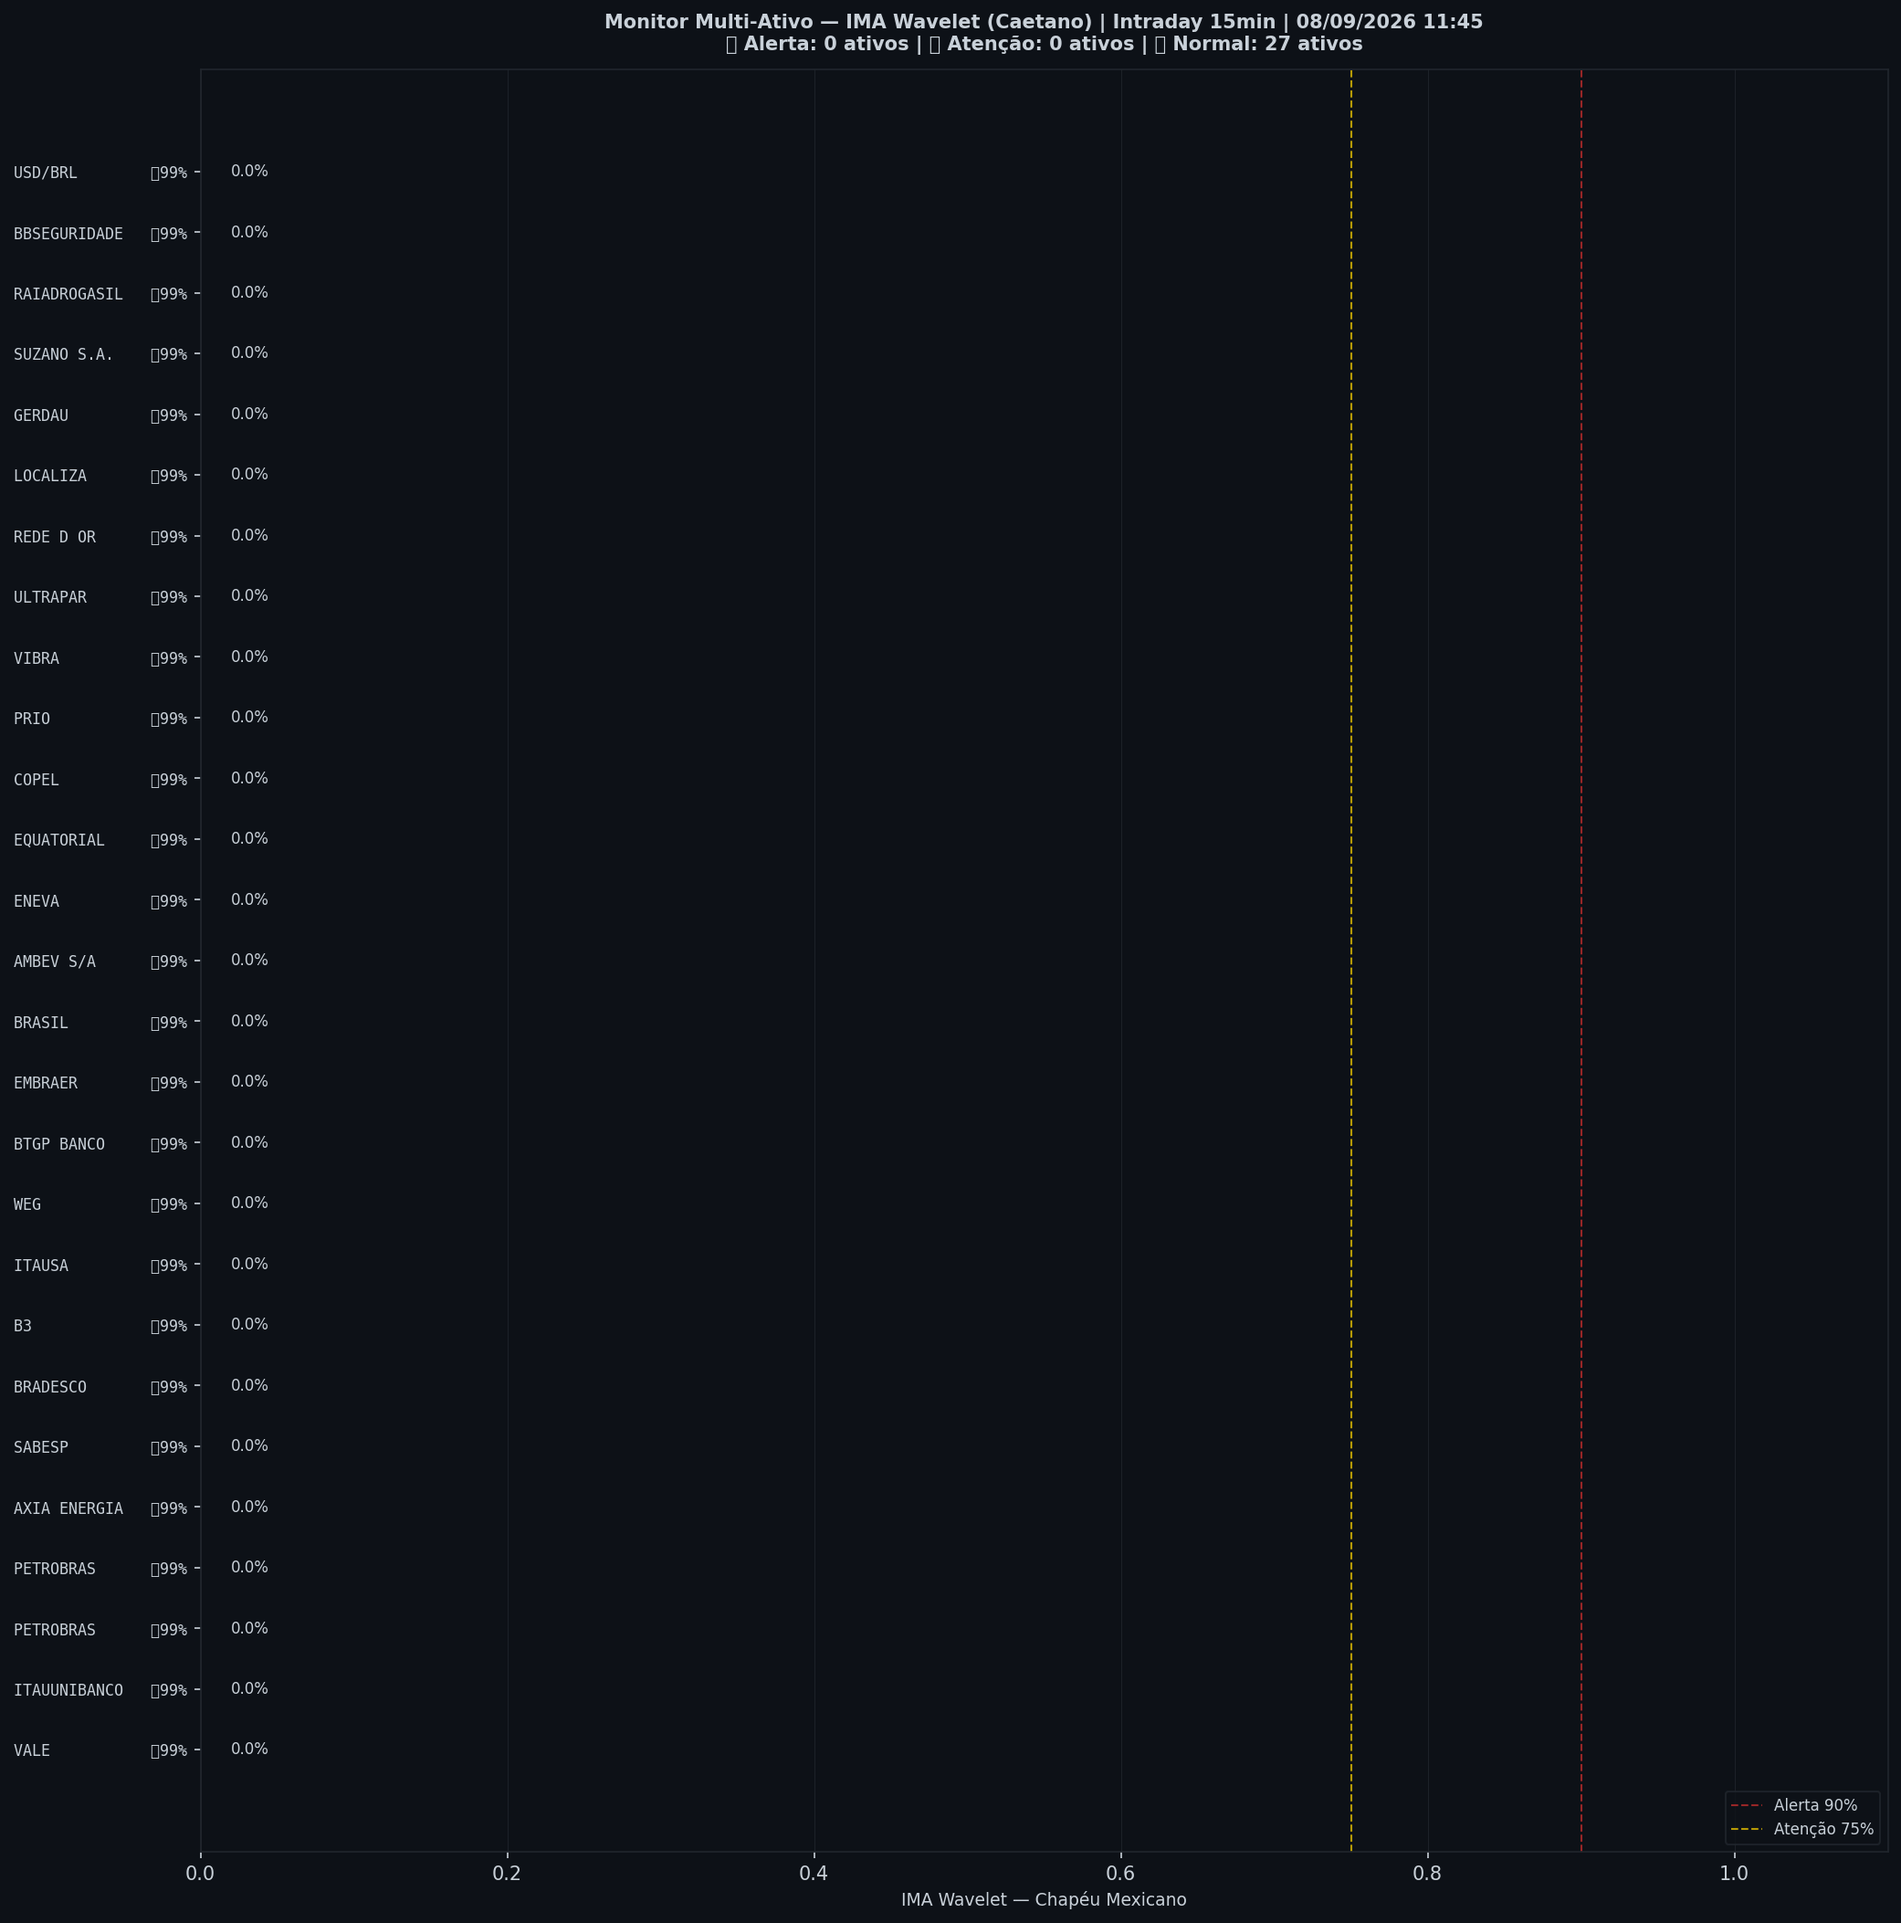
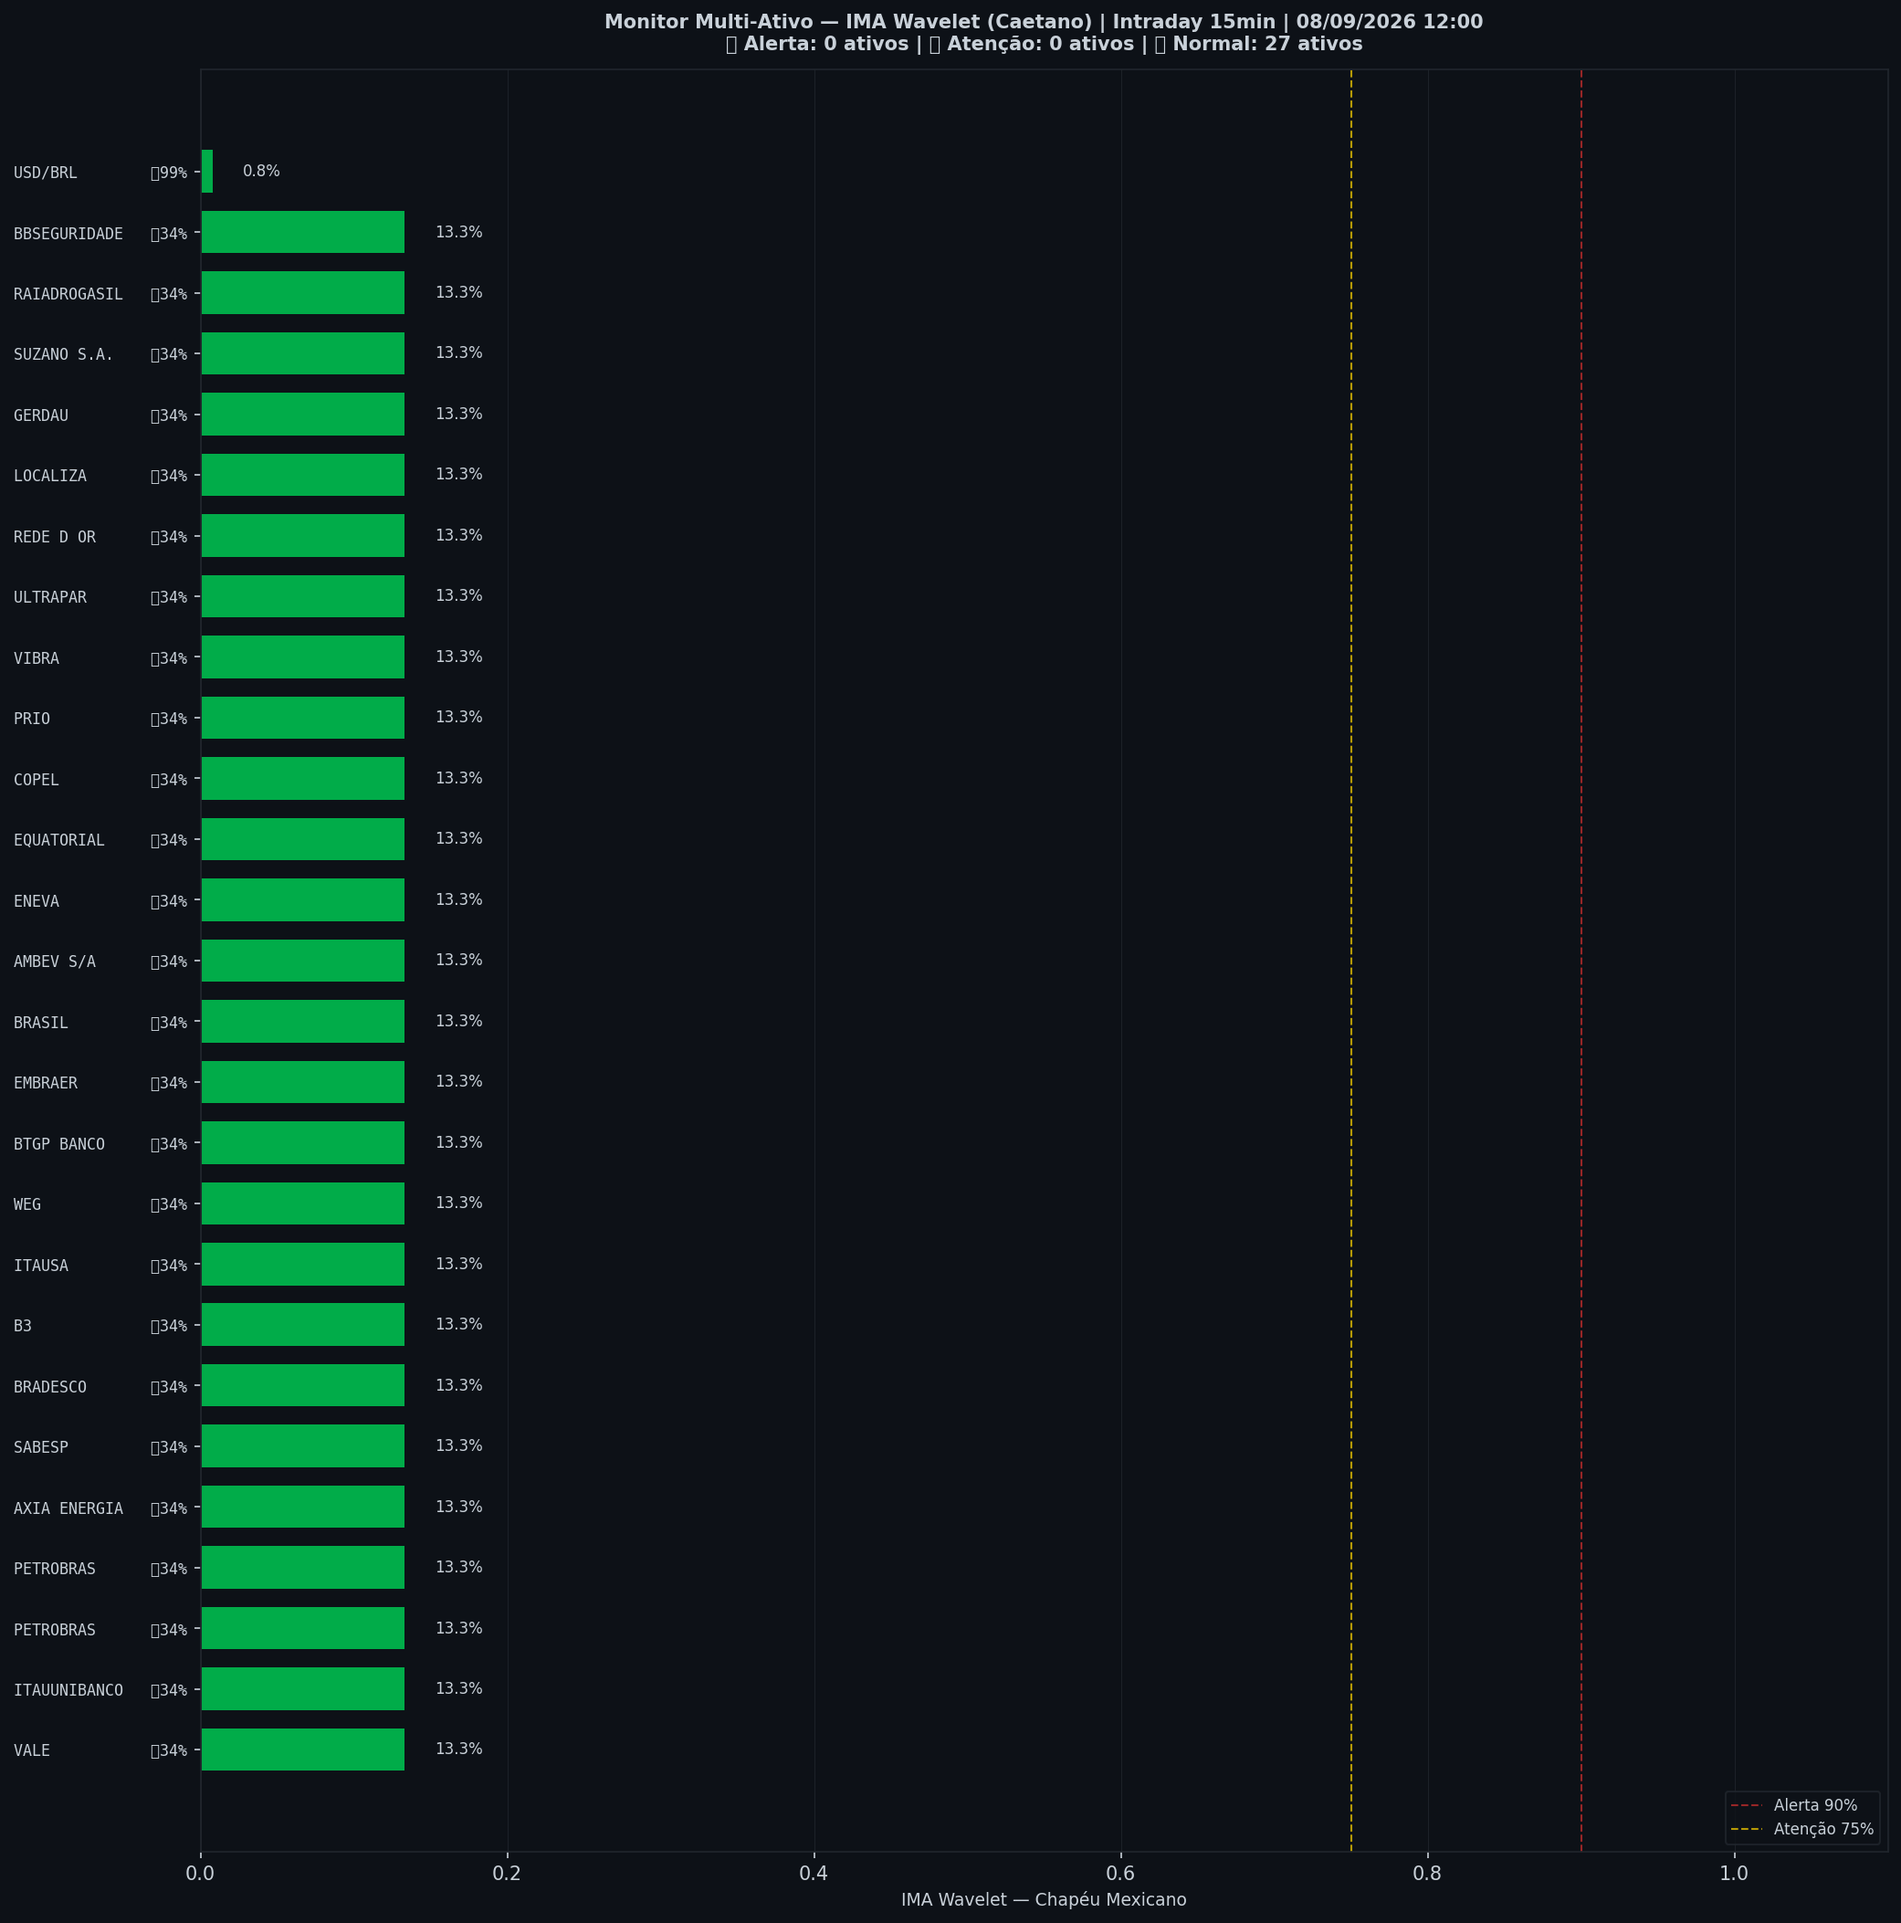
🤖 Auto: Sinal 08/09/2026 12:00

Changed region(s): [[0.0937, 0.0926, 0.2185, 0.9259]]

diff --git a/content/intraday/2026-09-08.md b/content/intraday/2026-09-08.md
@@ -1,20 +1,20 @@
 ---
-title: "🟢 Intraday 08/09/2026 11:00 BRT — VERDE"
+title: "🟢 Intraday 08/09/2026 11:15 BRT — VERDE"
 date: 2026-09-08
 tags: [intraday]
 ---
 
-> [!success] 🟢 **VERDE** — Risco 17% · ▲ +5 p.p. vs leitura anterior
-> `███░░░░░░░░░░░░░░░░░`
+> [!success] 🟢 **VERDE** — Risco 20% · ▲ +2 p.p. vs leitura anterior
+> `████░░░░░░░░░░░░░░░░`
 > Mercado sem sinais relevantes de estresse.
 
 
 | Indicador | Valor |
 |---|---|
-| 🔴 ζ Crash — severidade da queda em curso | **17%** |
+| 🔴 ζ Crash — severidade da queda em curso | **20%** |
 | 🔵 ζ Entrada — estrutura de fundo | 0% |
 | 🫧 LPPL DS-Confidence | 0% |
-| 📊 Ibovespa | 188.914 pts |
+| 📊 Ibovespa | 189.170 pts |
 
 ![Gráfico do sinal](../graficos/sinal_intraday.png)
 
@@ -22,6 +22,7 @@ tags: [intraday]
 
 | Data | Zona | Risco | IMA Crash | Entrada | LPPL |
 |---|---|---|---|---|---|
+| 2026-09-08 11:15 | 🟢 VERDE | **20%** | 20% | 0% | 0% |
 | 2026-09-08 11:00 | 🟢 VERDE | **17%** | 17% | 0% | 0% |
 | 2026-09-08 10:45 | 🟢 VERDE | **12%** | 12% | 0% | 0% |
 | 2026-09-08 10:30 | 🟢 VERDE | **6%** | 6% | 2% | 0% |
@@ -51,7 +52,6 @@ tags: [intraday]
 | 2026-09-04 11:30 | 🟢 VERDE | **2%** | 2% | 73% | 0% |
 | 2026-09-04 11:15 | 🟢 VERDE | **0%** | 0% | 80% | 0% |
 | 2026-09-04 11:00 | 🟢 VERDE | **0%** | 0% | 84% | 0% |
-| 2026-09-04 10:45 | 🟢 VERDE | **1%** | 1% | 84% | 0% |
 
 ## Monitor Multi-Ativo
 
@@ -59,37 +59,37 @@ tags: [intraday]
 
 | Zona | Ativo | Setor | IMA Crash | IMA Entrada |
 |---|---|---|---|---|
-| 🟢 | **VALE** | Mineração | 0.0% | 99.2% |
-| 🟢 | **ITAUUNIBANCO** | Financeiro | 0.0% | 99.2% |
-| 🟢 | **PETROBRAS** | Petróleo | 0.0% | 99.2% |
-| 🟢 | **PETROBRAS** | Petróleo | 0.0% | 99.2% |
-| 🟢 | **AXIA ENERGIA** | Energia | 0.0% | 99.2% |
-| 🟢 | **SABESP** | Saneamento | 0.0% | 99.2% |
-| 🟢 | **BRADESCO** | Financeiro | 0.0% | 99.2% |
-| 🟢 | **B3** | Financeiro | 0.0% | 99.2% |
-| 🟢 | **ITAUSA** | Financeiro | 0.0% | 99.2% |
-| 🟢 | **WEG** | Industrial | 0.0% | 99.2% |
-| 🟢 | **BTGP BANCO** | Financeiro | 0.0% | 99.2% |
-| 🟢 | **EMBRAER** | Outros | 0.0% | 99.2% |
-| 🟢 | **BRASIL** | Financeiro | 0.0% | 99.2% |
-| 🟢 | **AMBEV S/A** | Consumo | 0.0% | 99.2% |
-| 🟢 | **ENEVA** | Energia | 0.0% | 99.2% |
-| 🟢 | **EQUATORIAL** | Energia | 0.0% | 99.2% |
-| 🟢 | **COPEL** | Energia | 0.0% | 99.2% |
-| 🟢 | **PRIO** | Petróleo | 0.0% | 99.2% |
-| 🟢 | **VIBRA** | Energia | 0.0% | 99.2% |
-| 🟢 | **ULTRAPAR** | Outros | 0.0% | 99.2% |
-| 🟢 | **REDE D OR** | Saúde | 0.0% | 99.2% |
-| 🟢 | **LOCALIZA** | Aluguel | 0.0% | 99.2% |
-| 🟢 | **GERDAU** | Siderurgia | 0.0% | 99.2% |
-| 🟢 | **SUZANO S.A.** | Papel/Celulose | 0.0% | 99.2% |
-| 🟢 | **RAIADROGASIL** | Outros | 0.0% | 99.2% |
-| 🟢 | **BBSEGURIDADE** | Financeiro | 0.0% | 99.2% |
-| 🟢 | **USD/BRL** | Câmbio | 0.0% | 99.2% |
+| 🟢 | **VALE** | Mineração | 13.3% | 33.6% |
+| 🟢 | **ITAUUNIBANCO** | Financeiro | 13.3% | 33.6% |
+| 🟢 | **PETROBRAS** | Petróleo | 13.3% | 33.6% |
+| 🟢 | **PETROBRAS** | Petróleo | 13.3% | 33.6% |
+| 🟢 | **AXIA ENERGIA** | Energia | 13.3% | 33.6% |
+| 🟢 | **SABESP** | Saneamento | 13.3% | 33.6% |
+| 🟢 | **BRADESCO** | Financeiro | 13.3% | 33.6% |
+| 🟢 | **B3** | Financeiro | 13.3% | 33.6% |
+| 🟢 | **ITAUSA** | Financeiro | 13.3% | 33.6% |
+| 🟢 | **WEG** | Industrial | 13.3% | 33.6% |
+| 🟢 | **BTGP BANCO** | Financeiro | 13.3% | 33.6% |
+| 🟢 | **EMBRAER** | Outros | 13.3% | 33.6% |
+| 🟢 | **BRASIL** | Financeiro | 13.3% | 33.6% |
+| 🟢 | **AMBEV S/A** | Consumo | 13.3% | 33.6% |
+| 🟢 | **ENEVA** | Energia | 13.3% | 33.6% |
+| 🟢 | **EQUATORIAL** | Energia | 13.3% | 33.6% |
+| 🟢 | **COPEL** | Energia | 13.3% | 33.6% |
+| 🟢 | **PRIO** | Petróleo | 13.3% | 33.6% |
+| 🟢 | **VIBRA** | Energia | 13.3% | 33.6% |
+| 🟢 | **ULTRAPAR** | Outros | 13.3% | 33.6% |
+| 🟢 | **REDE D OR** | Saúde | 13.3% | 33.6% |
+| 🟢 | **LOCALIZA** | Aluguel | 13.3% | 33.6% |
+| 🟢 | **GERDAU** | Siderurgia | 13.3% | 33.6% |
+| 🟢 | **SUZANO S.A.** | Papel/Celulose | 13.3% | 33.6% |
+| 🟢 | **RAIADROGASIL** | Outros | 13.3% | 33.6% |
+| 🟢 | **BBSEGURIDADE** | Financeiro | 13.3% | 33.6% |
+| 🟢 | **USD/BRL** | Câmbio | 0.8% | 99.2% |
 
 ![Monitor multi-ativo](../graficos/multi_intraday.png)
 
-*Página atualizada em 08/09/2026 11:45 BRT (leitura da barra de 2026-09-08 11:00 BRT).*
+*Página atualizada em 08/09/2026 12:00 BRT (leitura da barra de 2026-09-08 11:15 BRT).*
 
 > [!info]- Como interpretar (clique para expandir)
 > - **ζ Crash**: fração dos coeficientes wavelet acima do corte (Caetano & Yoneyama 2009). Escala absoluta: ζ=0,90 = 90% dos coeficientes anômalos — historicamente, quedas com ζ≥0,90 foram mais fundas e mais longas. **Mede a severidade do movimento em curso, não prevê o início da queda.**

diff --git a/content/index.md b/content/index.md
@@ -8,19 +8,19 @@ tags: [home]
 
 Monitoramento diário e intraday do Ibovespa — **IMA Wavelet** (Prof. Marco Antonio Leonel Caetano, ITA/INSPER) + **LPPL DS-Confidence** (Prof. Didier Sornette, ETH-Zurich).
 
-*Última atualização: 08/09/2026 11:45 BRT · ^BVSP · Intraday 15min · v4*
+*Última atualização: 08/09/2026 12:00 BRT · ^BVSP · Intraday 15min · v4*
 
-> [!success] 🟢 **VERDE** — Risco 17% · ▲ +5 p.p. vs leitura anterior
-> `███░░░░░░░░░░░░░░░░░`
+> [!success] 🟢 **VERDE** — Risco 20% · ▲ +2 p.p. vs leitura anterior
+> `████░░░░░░░░░░░░░░░░`
 > Mercado sem sinais relevantes de estresse.
 
 
 | Indicador | Valor |
 |---|---|
-| 🔴 ζ Crash — severidade da queda em curso | **17%** |
+| 🔴 ζ Crash — severidade da queda em curso | **20%** |
 | 🔵 ζ Entrada — estrutura de fundo | 0% |
 | 🫧 LPPL DS-Confidence | 0% |
-| 📊 Ibovespa | 188.914 pts |
+| 📊 Ibovespa | 189.170 pts |
 
 **Multi-ativo:** 0% em tensão (0🔴 0🟡 de 27 ativos)
 
@@ -32,7 +32,7 @@ Monitoramento diário e intraday do Ibovespa — **IMA Wavelet** (Prof. Marco An
 
 | Data | Zona | Risco | IMA | LPPL |
 |---|---|---|---|---|
-| [08 Sep 2026](diario/2026-09-08) | 🟢 VERDE | **17%** | 17% | 0% |
+| [08 Sep 2026](diario/2026-09-08) | 🟢 VERDE | **20%** | 20% | 0% |
 | [04 Sep 2026](diario/2026-09-04) | 🟢 VERDE | **0%** | 0% | 0% |
 
 ## Navegação

diff --git a/content/historico.md b/content/historico.md
@@ -7,6 +7,7 @@ tags: [historico]
 
 | Data | Modo | Zona | Risco | IMA | LPPL |
 |---|---|---|---|---|---|
+| 2026-09-08 11:15 | intraday | 🟢 VERDE | 20% | 20% | 0% |
 | 2026-09-08 11:00 | intraday | 🟢 VERDE | 17% | 17% | 0% |
 | 2026-09-08 10:45 | intraday | 🟢 VERDE | 12% | 12% | 0% |
 | 2026-09-08 10:30 | intraday | 🟢 VERDE | 6% | 6% | 0% |
